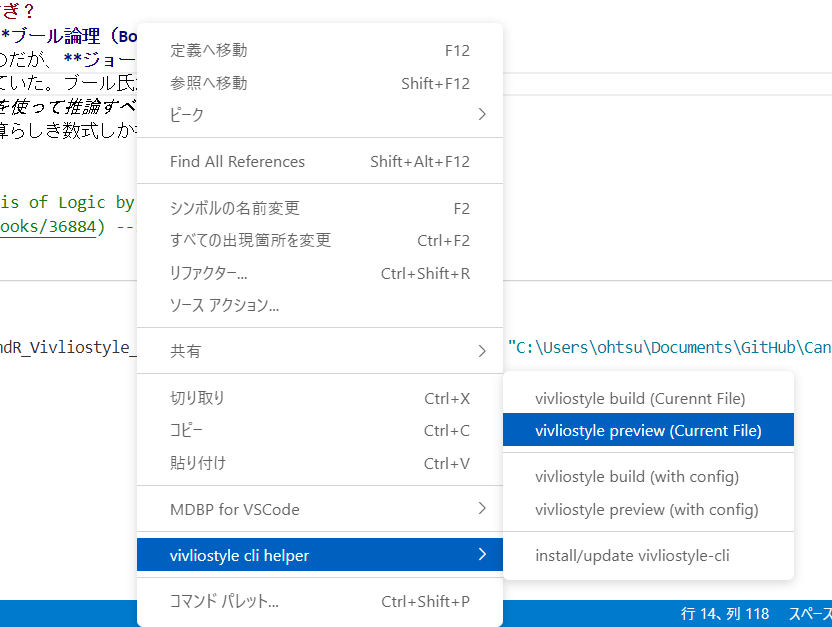
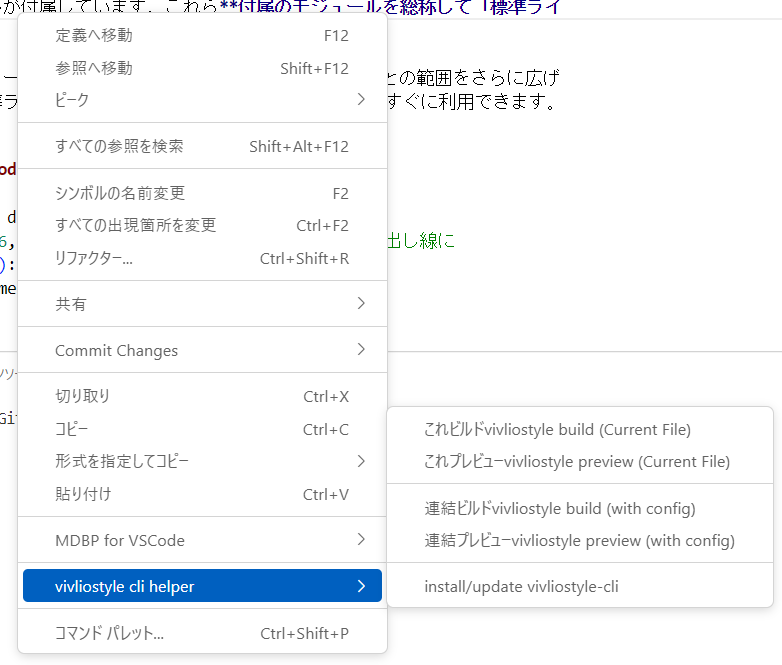
v0.0.9 release

diff --git a/README.md b/README.md
@@ -48,10 +48,15 @@ module.exports = vivliostyleConfig;
 プレビューが終了するまで他のコマンドは実行できません。
 
 ### 右クリックメニュー対応
-![Preview](docimg2.png)
+MarkdownまたはHTMLファイルを右クリックして実行できるようにしました。
+
+![Preview](docimg3.png)
 
 
 ## Release Notes
+### 0.0.9
+コマンド名に日本語追加
+
 ### 0.0.8
 build current時に、出力PDF名をソースファイルに合わせる
 
